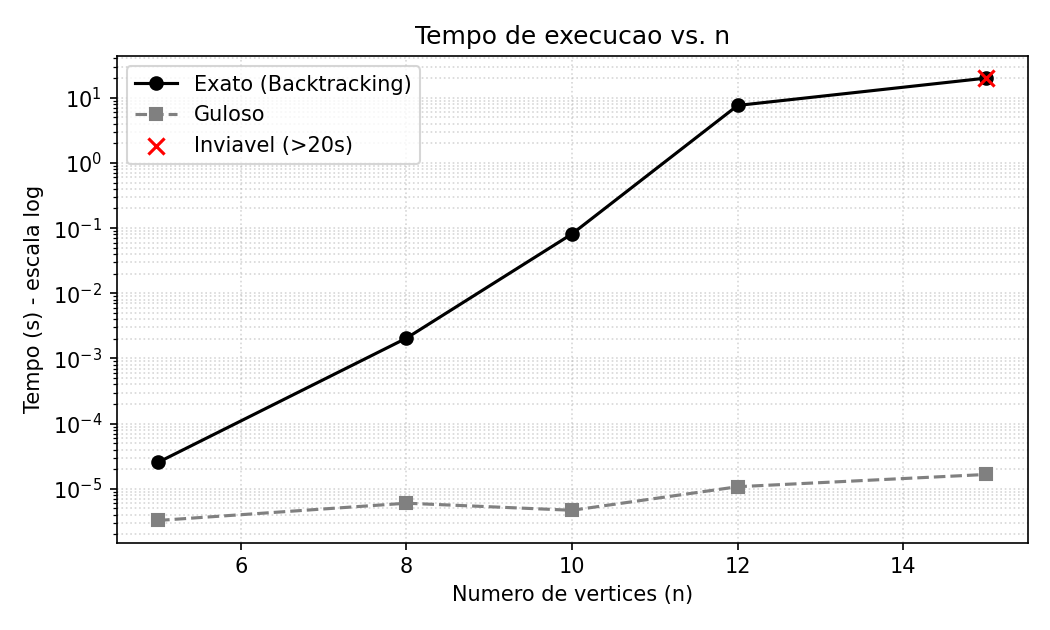
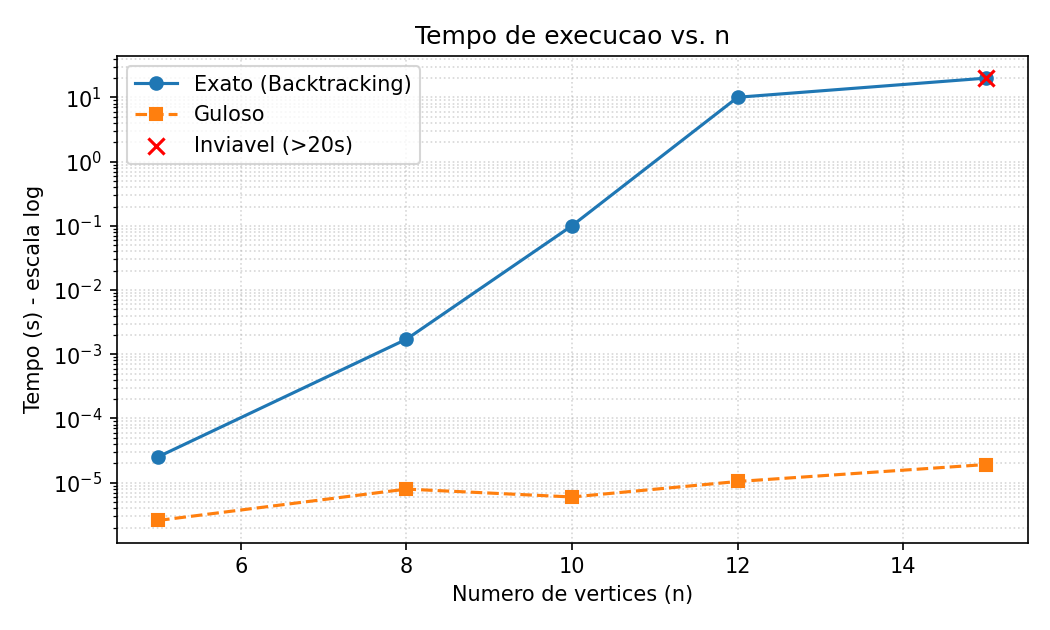
Atualiza descrição do relatório no README.md

diff --git a/src/caminho_mais_longo.py b/src/caminho_mais_longo.py
@@ -136,9 +136,9 @@ def gerar_grafico_tempo(resultados, pasta_img):
     ns = [r["n"] for r in resultados]
     plt.figure(figsize=(7, 4.2))
     plt.plot(ns, [r["tempo_ex"] for r in resultados], "o-",
-             color="black", label="Exato (Backtracking)")
+             label="Exato (Backtracking)")
     plt.plot(ns, [r["tempo_gu"] for r in resultados], "s--",
-             color="gray", label="Guloso")
+             label="Guloso")
     for r in resultados:
         if r["timeout"]:
             plt.scatter([r["n"]], [r["tempo_ex"]], color="red", marker="x",
@@ -161,9 +161,9 @@ def gerar_grafico_qualidade(resultados, pasta_img):
     x = range(len(ns))
     plt.figure(figsize=(7, 4.2))
     plt.bar([i - 0.2 for i in x], [r["peso_ex"] or 0 for r in resultados],
-            width=0.4, color="black", label="Otimo (Exato)")
+            width=0.4, color="tab:blue", label="Otimo (Exato)")
     plt.bar([i + 0.2 for i in x], [r["peso_gu"] or 0 for r in resultados],
-            width=0.4, color="gray", label="Guloso")
+            width=0.4, color="tab:orange", label="Guloso")
     plt.xticks(list(x), ns)
     plt.xlabel("Numero de vertices (n)")
     plt.ylabel("Peso total do caminho")

diff --git a/Documentos/Relatorio_Caminho_Mais_Longo.md b/Documentos/Relatorio_Caminho_Mais_Longo.md
@@ -1,11 +1,11 @@
 # Passeio Turístico Máximo — Caminho Mais Longo
 
-**Análise e Projeto de Algoritmos**
+**IC0004 — Algoritmos e Grafos**
 
 | | |
 |---|---|
 | **Alunos** | Yves Luan do Rosário Moura e Patrick César Santos Silva |
-| **Disciplina** | Análise e Projeto de Algoritmos |
+| **Disciplina** | IC0004 — Algoritmos e Grafos |
 | **Professor** | George Lima |
 | **Data** | 01/07/2026 |
 
@@ -13,38 +13,41 @@
 
 ## Parte A — Complexidade e Redução Polinomial
 
-Para tratarmos a dificuldade do problema no sentido de NP, consideramos a versão de decisão do Caminho Mais Longo e fizemos uma redução a partir do Caminho Hamiltoniano, que é NP-Completo.
+Para tratarmos a dificuldade do problema no sentido de NP, consideramos a versão de decisão do Caminho Mais Longo e construímos uma redução polinomial a partir do Caminho Hamiltoniano, que é NP-Completo. Seguimos a definição de redução vista em aula, ou seja, uma função que transforma qualquer instância do primeiro problema em uma instância do segundo, em tempo polinomial, de forma que a resposta seja SIM em um se, e somente se, for SIM no outro. Nos slides a notação usada é Hamiltoniano ∝ Caminho Mais Longo; o enunciado escreve ≤ₚ, que é a mesma ideia.
 
-> **Caminho Mais Longo (decisão).** Dado `G=(V,E)` não direcionado com pesos `w(u,v)>0`, vértices `S` e `D` e um inteiro `k`: existe caminho simples de `S` a `D` com soma de pesos ≥ `k`?
+> **Caminho Mais Longo (decisão).** Dados `G=(V,E)` não direcionado com pesos `w(u,v)>0`, vértices `S` e `D` e um inteiro `k`, existe caminho simples de `S` a `D` com soma de pesos ≥ `k`?
 
 > **Caminho Hamiltoniano (decisão).** Dado `G=(V,E)` não direcionado, existe caminho simples que passa por todos os `n=|V|` vértices uma única vez?
 
-### Construção da redução
+### Construção da redução (transformação da entrada)
 
-Seja `G=(V,E)` uma instância qualquer do Caminho Hamiltoniano, com `n=|V|`. Constrímos uma instância `(G',S,D,k)` do Caminho Mais Longo da seguinte forma:
+Uma dificuldade aparece logo de cara. O Caminho Hamiltoniano não fixa onde o caminho começa nem onde termina, enquanto o Caminho Mais Longo exige uma origem `S` e um destino `D`. Resolvemos isso adicionando dois vértices artificiais, que acabam fazendo exatamente o papel do hotel e da praça do enunciado.
 
-- `G'` tem os mesmos vértices e as mesmas arestas de `G`;
-- toda aresta de `G'` recebe peso 1;
-- `k = n − 1`;
-- como o Hamiltoniano não fixa início e fim, consideramos cada par ordenado `(S,D)` de vértices distintos. São `n(n−1)` pares; o Hamiltoniano tem resposta "sim" se, e somente se, algum desses pares tiver resposta "sim" no Caminho Mais Longo.
+Seja `G=(V,E)` uma instância qualquer do Caminho Hamiltoniano, com `n=|V|`. Construímos uma única instância `(G', S, D, k)` do Caminho Mais Longo da seguinte forma:
 
-A construção troca o peso de cada aresta e gera `O(n²)` pares de extremos, logo é feita em tempo polinomial.
+- `G'` contém todos os vértices e todas as arestas de `G`;
+- acrescentamos dois vértices novos, `s*` e `d*`;
+- ligamos `s*` a todos os vértices de `V`, e `d*` também a todos os vértices de `V` (mas não criamos aresta entre `s*` e `d*`);
+- toda aresta de `G'`, tanto as originais quanto as novas, recebe peso 1;
+- por fim, `S = s*`, `D = d*` e `k = n + 1`.
+
+A transformação cria 2 vértices e `2n` arestas novas e atribui peso às `O(n²)` arestas, então roda em tempo polinomial. Essa é a primeira exigência da definição; falta a segunda, que é a equivalência das respostas.
 
 ### Equivalência das respostas
 
-**(⇒)** Digamos que `G` tem caminho hamiltoniano `v₁,...,vₙ`. Esse caminho usa `n−1` arestas e, como cada aresta vale 1, somamos `n−1 = k`. Tomando `S=v₁` e `D=vₙ`, ele é um caminho simples em `G'` com soma ≥ `k`. Logo o Caminho Mais Longo responde "sim".
+**Ida.** Digamos que `G` tem caminho hamiltoniano `v₁,...,vₙ`. Então `s*, v₁, ..., vₙ, d*` é um caminho simples de `s*` a `d*` em `G'`. A primeira e a última aresta existem porque `s*` e `d*` são vizinhos de todos os vértices de `V`, e o trecho do meio já era um caminho em `G`. Ele usa `n+1` arestas, todas de peso 1, então a soma é exatamente `n+1 = k`. Logo o Caminho Mais Longo responde "sim".
 
-**(⇐)** Consideramos que existe caminho simples de soma ≥ `n−1` em `G'` para algum par `(S,D)`. Como toda aresta vale 1, esse caminho tem pelo menos `n−1` arestas. Mas um caminho simples num grafo de `n` vértices tem no máximo `n−1` arestas, pois não repete vértice. Então ele tem exatamente `n−1` arestas e, portanto, `n` vértices distintos — ou seja, passa por todos. Esse é um caminho hamiltoniano em `G`. Logo o Hamiltoniano responde "sim".
+**Volta.** Agora consideramos que existe caminho simples de `s*` a `d*` em `G'` com soma ≥ `n+1`. Como toda aresta vale 1, esse caminho tem pelo menos `n+1` arestas, ou seja, pelo menos `n+2` vértices. Só que `G'` tem exatamente `n+2` vértices e um caminho simples não repete nenhum. Então o caminho passa por todos eles, com `s*` e `d*` nas pontas e os `n` vértices de `V` no meio, em alguma ordem `v₁,...,vₙ`. Cada par consecutivo do miolo está ligado por uma aresta de `G'` entre vértices de `V`, e essas são exatamente as arestas originais de `G`, já que as arestas novas sempre encostam em `s*` ou `d*`. Portanto `v₁,...,vₙ` é um caminho hamiltoniano em `G`, e o Hamiltoniano responde "sim".
 
-A transformação é polinomial e preserva a resposta nos dois sentidos. Portanto **Caminho Hamiltoniano ≤ₚ Caminho Mais Longo**, e como o Hamiltoniano é NP-Completo, o Caminho Mais Longo é **NP-Difícil**. Além disso, com um caminho candidato, verificamos em tempo linear se ele é simples e se atinge `k`, então o problema está em NP; juntando as duas coisas, ele é **NP-Completo**.
+A transformação é polinomial e preserva a resposta nos dois sentidos. Portanto **Caminho Hamiltoniano ≤ₚ Caminho Mais Longo**, e como o Hamiltoniano é NP-Completo, o Caminho Mais Longo é **NP-Difícil**. Se existisse um algoritmo polinomial para ele, bastaria aplicar a transformação acima e resolveríamos o Hamiltoniano em tempo polinomial também. Além disso, com um caminho candidato como certificado, verificamos em tempo linear se ele é simples, se vai de `S` a `D` e se atinge `k`, então a versão de decisão está em NP. Juntando as duas coisas, ela é, na verdade, NP-Completa.
 
-> **Observação.** O Caminho Mais Curto é resolvido de forma eficiente (Dijkstra) porque qualquer subcaminho de um caminho mínimo também é mínimo, o que permite construir a solução localmente. No Caminho Mais Longo simples isso não vale: a restrição de não repetir vértice cria dependência entre as escolhas, e decidir localmente não garante o ótimo. Essa é a raiz da dificuldade.
+Vale comentar por que o Caminho Mais Curto é fácil e o Mais Longo não. No caminho mínimo, qualquer subcaminho de um caminho ótimo também é ótimo, e é essa subestrutura que o Dijkstra explora para construir a solução localmente. No caminho simples mais longo isso não vale, porque a restrição de não repetir vértice cria dependência entre as escolhas, e uma decisão boa agora pode inviabilizar o resto da rota. Essa é a raiz da dificuldade.
 
 ---
 
 ## Parte B — Implementação e Experimentos
 
-Implementamos as duas abordagens em Python. Os grafos usados são completos, com pesos inteiros sorteados entre 1 e 100. Deixamos a semente do sorteio fixa (`random.seed(42)`) pra poder repetir o experimento e dar sempre o mesmo resultado. Em todos os testes a origem é o vértice 0 e o destino é o vértice `n−1`.
+Implementamos as duas abordagens em Python. Os grafos usados são completos, com pesos inteiros sorteados entre 1 e 100. Deixamos a semente do sorteio fixa (`random.seed(42)`) pra poder repetir o experimento e dar sempre o mesmo resultado. Em todos os testes a origem é o vértice 0 e o destino é o vértice `n−1`. Os tempos foram medidos num desktop com Ryzen 5 3500X e 16 GB de RAM, rodando Python 3.13 no WSL2 (Ubuntu).
 
 ### Solução exata (backtracking)
 
@@ -81,7 +84,7 @@ def resolver_exato(g, n, origem, destino, limite=20.0):
 
 ### Solução gulosa (heurística)
 
-O guloso é bem mais simples: começa na origem e vai sempre pro vizinho ainda não visitado que tiver a maior aresta. Para quando chega no destino, ou quando fica preso sem ter para onde ir (beco sem saída).
+O guloso é bem mais simples. Começa na origem e vai sempre pro vizinho ainda não visitado que tiver a maior aresta. Para quando chega no destino, ou quando fica preso sem ter para onde ir (beco sem saída).
 
 ```python
 def resolver_guloso(g, n, origem, destino):
@@ -116,16 +119,16 @@ O restante do código (geração dos grafos aleatórios, laço dos experimentos 
 | n  | Exato               | Guloso |
 |----|---------------------|--------|
 | 5  | 23 µs               | 3 µs   |
-| 8  | 1,82 ms             | 7 µs   |
-| 10 | 107,74 ms           | 7 µs   |
-| 12 | 9,76 s              | 12 µs  |
+| 8  | 1,7 ms              | 8 µs   |
+| 10 | 100,7 ms            | 6 µs   |
+| 12 | 10,07 s             | 10 µs  |
 | 15 | — (parou em 20 s)   | 19 µs  |
 
 ![Tempo de execução vs. número de vértices](../imagens/grafico_tempo.png)
 
 O eixo do tempo está em escala logarítmica. Nota-se que o tempo do exato sobe quase numa reta nesse gráfico, o que indica crescimento muito rápido (num grafo completo o número de caminhos de `S` a `D` é da ordem de `(n−2)!`). Já o guloso fica praticamente constante, perto de zero.
 
-> **Onde a força bruta deixa de ser viável:** com `n=12` o exato já levou quase 10 segundos na máquina local. Com `n=15` precisamos interromper a execução, porque passou de 20 segundos sem terminar. Então é mais ou menos nesse ponto (entre 12 e 15) que a solução exata vira algo impraticável. O guloso resolve o mesmo `n=15` em alguns microssegundos.
+E onde a força bruta deixa de ser viável? Com `n=12` o exato já levou uns 10 segundos na nossa máquina. Com `n=15` precisamos interromper a execução, porque passou de 20 segundos sem terminar. Então é mais ou menos nesse ponto, entre 12 e 15 vértices, que a solução exata vira algo impraticável. O guloso resolve o mesmo `n=15` em alguns microssegundos.
 
 ### Qualidade da solução
 
@@ -137,18 +140,18 @@ O eixo do tempo está em escala logarítmica. Nota-se que o tempo do exato sobe 
 | 12 | 960           | 726    | 24,4%       |
 | 15 | não terminou  | 1192   | —           |
 
-![Qualidade da solução: peso ótimo vs. guloso](../imagens/grafico_qualidade.png)
+![Qualidade da solução (peso ótimo vs. guloso)](../imagens/grafico_qualidade.png)
 
-Olhando os casos em que a força bruta conseguiu terminar, o guloso ficou de 9% a 76% pior que o ótimo, sem nenhum padrão. Os casos `n=5` e `n=10` são os mais chamativos: o guloso pega logo de cara a aresta mais pesada saindo da origem, que acaba levando direto ao destino, e o caminho termina com pouquíssimos vértices, deixando de fora boa parte do grafo.
+Olhando os casos em que a força bruta conseguiu terminar, o guloso ficou de 9% a 76% pior que o ótimo, sem nenhum padrão. Os casos `n=5` e `n=10` são os mais chamativos. Neles o guloso pega logo de cara a aresta mais pesada saindo da origem, que acaba levando direto ao destino, e o caminho termina com pouquíssimos vértices, deixando de fora boa parte do grafo.
 
 O caso `n=10` deixa isso bem claro. O caminho ótimo encontrado pelo backtracking foi `0 → 1 → 7 → 8 → 4 → 5 → 6 → 3 → 2 → 9`, passando por todos os 10 vértices e somando peso 747. Já o guloso saiu de 0, foi direto para o vértice 7 (que tinha a aresta mais pesada) e de lá caiu no destino 9, parando no caminho `0 → 7 → 9` com peso 180. Ou seja, ele terminou cedo demais e perdeu quase todo o grafo.
 
-> **Por que o guloso erra:** a gente quer maximizar a soma de um caminho que não repete vértice. Mas escolher sempre a maior aresta no momento pode (1) levar cedo demais ao destino e encerrar o caminho curto, ou (2) gastar um vértice que faria falta numa rota bem maior mais pra frente. Como o guloso nunca volta atrás, ele fica preso nesse ótimo local. Esse problema simplesmente não tem a propriedade de escolha gulosa que faz heurísticas assim funcionarem em outros problemas — o que faz sentido, já que ele é NP-Difícil.
+Por que o guloso erra? A gente quer maximizar a soma de um caminho que não repete vértice. Mas escolher sempre a maior aresta do momento pode (1) levar cedo demais ao destino e encerrar o caminho curto, ou (2) gastar um vértice que faria falta numa rota bem maior mais pra frente. Como o guloso nunca volta atrás, ele fica preso nesse ótimo local. Esse problema simplesmente não tem a propriedade de escolha gulosa que faz heurísticas assim funcionarem em outros problemas, o que faz sentido, já que ele é NP-Difícil.
 
 ### Resumindo o trade-off
 
 - **Exato:** sempre acha o melhor caminho, mas o custo cresce como `(n−2)!` e fica inviável já por volta de `n=12` a `15` em grafos completos.
-- **Guloso:** é muito rapido (`O(n²)` no pior caso) e sempre devolve alguma rota, mas sem garantia nenhuma de qualidade — pode errar muito e às vezes nem chega no destino.
+- **Guloso:** é muito rápido (`O(n²)` no pior caso) e sempre devolve alguma rota, mas sem garantia nenhuma de qualidade, podendo errar muito e às vezes nem chegar no destino.
 
 ---
 

diff --git a/README.md b/README.md
@@ -20,7 +20,7 @@ O trabalho tem duas partes:
 
 - `src/` — o código (`caminho_mais_longo.py`)
 - `imagens/` — os gráficos gerados pelos experimentos
-- `Documentos/` — o relatório completo em PDF, com as duas partes
+- `Documentos/` — o relatório completo com as duas partes (em Markdown, e uma versão HTML pronta pra abrir no navegador e salvar em PDF com Ctrl+P)
 
 ## Rodando o código
 